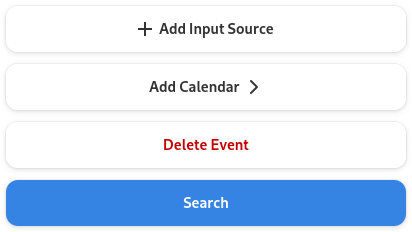
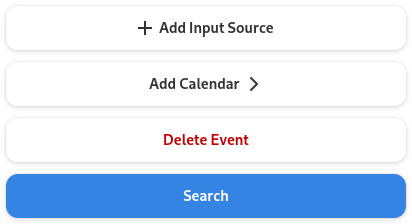
stylesheet: Reduce button row height

diff --git a/src/stylesheet/widgets/_lists.scss b/src/stylesheet/widgets/_lists.scss
@@ -429,7 +429,7 @@ row.button {
     margin-left: 12px;
     margin-right: 12px;
     border-spacing: 6px;
-    min-height: 42px;
+    min-height: 40px;
 
     > .icon:disabled {
       filter: Opacity(var(--disabled-opacity));
